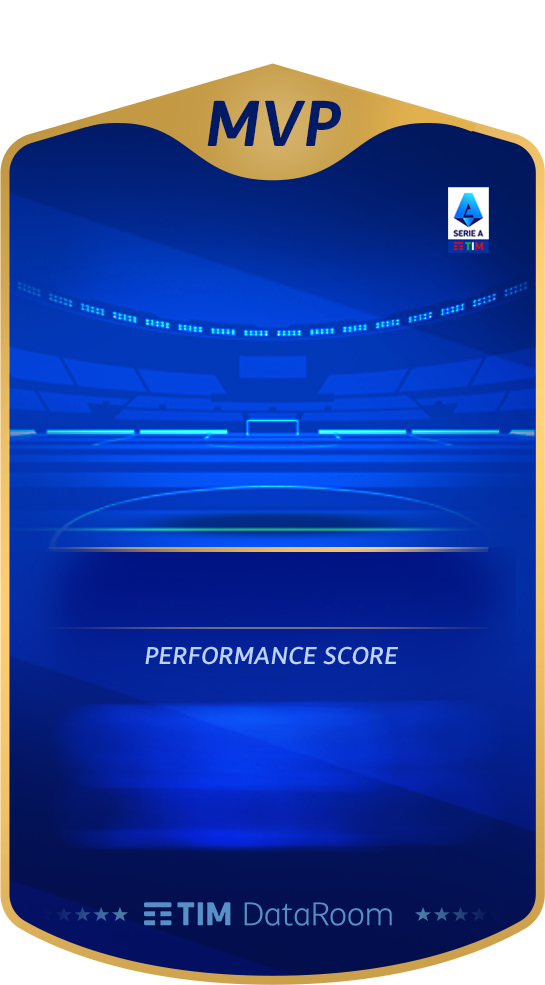
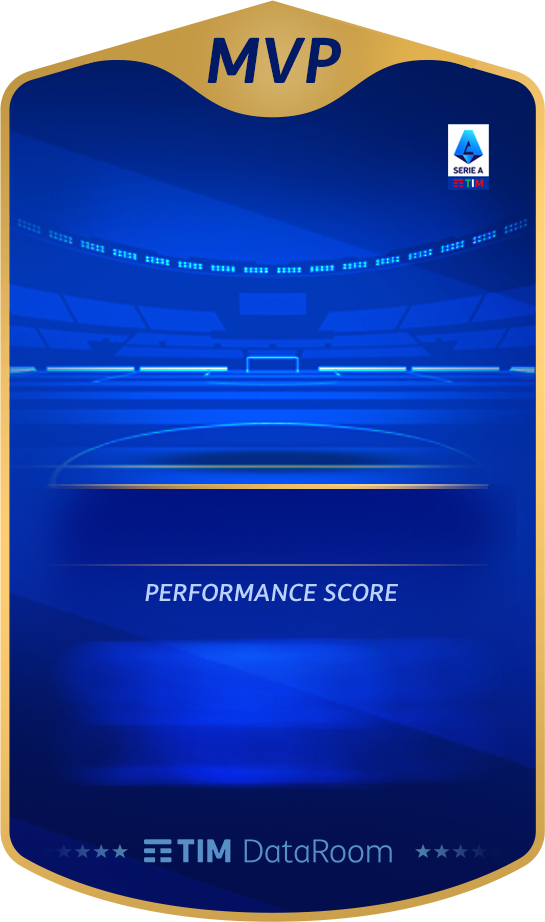
fix mvp style

diff --git a/skins/mvp/index.htm b/skins/mvp/index.htm
@@ -82,8 +82,8 @@
 
         .performance-score {
             position: absolute;
-    top: 564px;
-    left: 177px;
+    top: 580px;
+    left: 169px;
     width: 94px;
     text-align: center;
     font-size: 180px;
@@ -143,7 +143,7 @@
     left: 0;
     width: 298px;
     text-align: center;
-    font-size: 100px;
+    font-size: 120px;
     font-family: TIMSans;
     font-weight: 500;
         }
@@ -151,7 +151,7 @@
         .player-name {
             position: absolute;
     top: 485px;
-    left: 84px;
+    left: 82px;
     width: 380px;
     font-size: 59px;
     font-weight: 900;
@@ -162,7 +162,7 @@
         .score-table {
             position: absolute;
     left: 112px;
-    top: 782px;
+    top: 792px;
     font-size: 24px;
     width: 320px;
     text-align: center;
